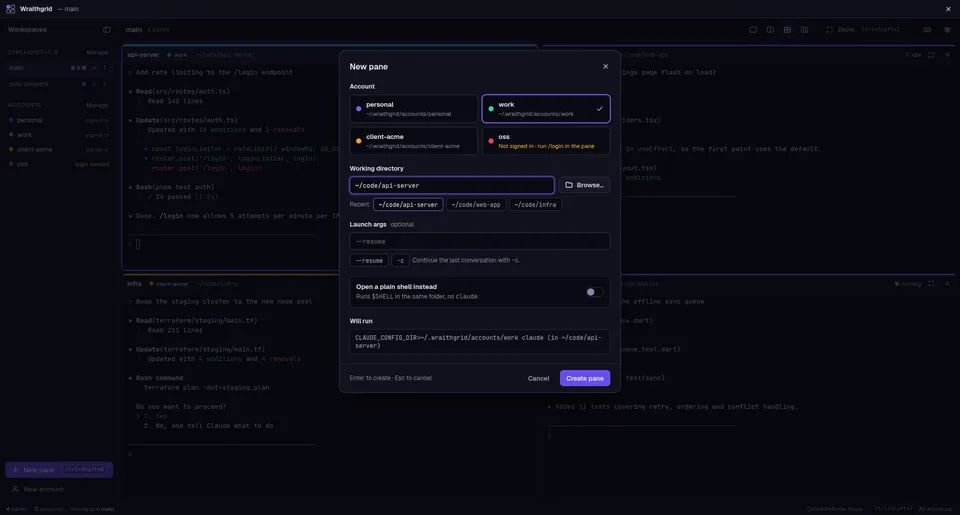
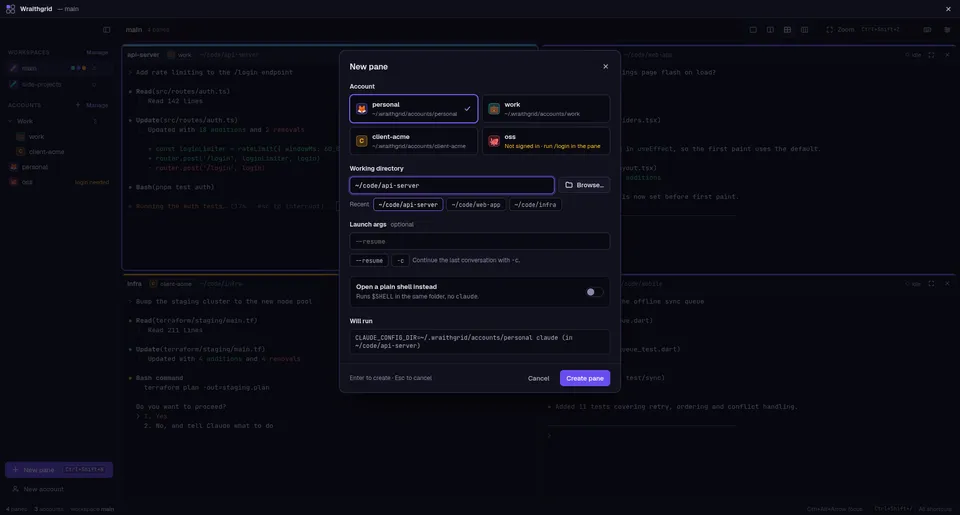
feat(content): update landing page for wraithgrid v1.3.0
The page copy and screenshots still described v1.1.0. Bring them up to
date with what v1.2.0 and v1.3.0 shipped:

- Screenshots re-imported with `pnpm assets` from the app repo's
  refreshed docs/screenshots (sidebar folders, emoji icons, shared
  ~/.claude). Same 1908x1023 size, so SHOT_WIDTH/HEIGHT are unchanged.
- Features: folders, emoji icons and right-click menus folded into the
  Workspaces tile; shared config now covers all of ~/.claude (settings,
  plugins, agents, commands) with a per-account opt-out; the update
  check became one-click in-place updates plus a release notification;
  running panes are animated.
- Shortcuts: Shift+Enter new line, Ctrl+= / Ctrl+- / Ctrl+0 text size.
- FAQ: "Does it update itself?" now says yes from v1.3.0, notes the
  Linux password prompt, and that 1.2.0 and older update by hand once.
- Screenshot alt text rewritten to match the new images.

Folders and icons were merged into an existing tile rather than added
as a tenth: the features grid is three columns, and nine tiles keep it
even.

The version label and download links needed no change; they come from
the GitHub latest-release API at runtime, and the v1.3.0 asset names
still match the platform patterns in src/lib/release.ts.

diff --git a/src/content.ts b/src/content.ts
@@ -13,7 +13,7 @@ export interface Shot {
 }
 
 export const HERO_ALT =
-  'Wraithgrid with four claude CLI panes in a 2×2 grid. Each pane shows its own account, project folder and status: running, or waiting for approval.'
+  'Wraithgrid with four claude CLI panes in a 2×2 grid. Each pane shows its own account, project folder and status: running, idle, or waiting for approval. The sidebar groups accounts into a Work folder, each with its own emoji icon.'
 
 export const GALLERY: readonly Shot[] = [
   {
@@ -24,17 +24,17 @@ export const GALLERY: readonly Shot[] = [
   {
     name: 'accounts',
     title: 'Accounts',
-    alt: 'The Accounts page listing four accounts, each with its own config directory, login status and number of open panes.',
+    alt: 'The Accounts page listing four accounts, each with its own emoji icon, config directory, login status and number of open panes. Every account shares CLAUDE.md, skills and plugins from ~/.claude.',
   },
   {
     name: 'settings',
     title: 'Settings',
-    alt: 'The Settings page with the theme switch, five accent colours, terminal palettes such as Dracula, Nord and Tokyo Night, the terminal font, and the update check.',
+    alt: 'The Settings page with the shared ~/.claude switch (Overall or Each account its own), the theme switch, five accent colours, terminal palettes such as Dracula, Nord and Tokyo Night, and the terminal font.',
   },
   {
     name: 'grid-light',
     title: 'Light theme',
-    alt: 'The same four-pane grid in the light theme.',
+    alt: 'The same four-pane grid in the light theme with the teal accent.',
   },
 ]
 
@@ -68,18 +68,18 @@ export const FEATURES: readonly Feature[] = [
   },
   {
     icon: 'workspaces',
-    title: 'Workspaces',
-    body: 'Keep several workspaces and switch between them with Ctrl+Shift+1…9.',
+    title: 'Workspaces, folders & icons',
+    body: 'Switch workspaces with Ctrl+Shift+1…9. Drag accounts into sidebar folders, give accounts and workspaces an emoji icon, and right-click either to rename or delete it.',
   },
   {
     icon: 'status',
     title: 'Live pane status',
-    body: 'Every pane shows whether it is running, idle, or waiting for your approval.',
+    body: 'Every pane shows whether claude is running (animated), idle, or waiting for your approval.',
   },
   {
     icon: 'shared',
-    title: 'Shared CLAUDE.md and skills',
-    body: 'Optionally link one CLAUDE.md and one skills/ folder into every account.',
+    title: 'One claude setup everywhere',
+    body: 'Every account uses the CLAUDE.md, settings, skills, plugins, agents and commands from your ~/.claude, or each keeps its own. Logins stay separate.',
   },
   {
     icon: 'restore',
@@ -93,8 +93,8 @@ export const FEATURES: readonly Feature[] = [
   },
   {
     icon: 'updates',
-    title: 'Update check',
-    body: 'Checks GitHub Releases for a newer version and tells you when there is one.',
+    title: 'One-click updates',
+    body: 'A desktop notification tells you once when a new version is out. Update & restart in Settings installs it in place.',
   },
   {
     icon: 'private',
@@ -109,6 +109,9 @@ export const SHORTCUTS: readonly { action: string; keys: readonly string[] }[] =
   { action: 'Zoom pane', keys: ['Ctrl', 'Shift', 'Z'] },
   { action: 'Move focus', keys: ['Ctrl', 'Alt', 'Arrow'] },
   { action: 'Switch workspace', keys: ['Ctrl', 'Shift', '1…9'] },
+  { action: 'New line in claude', keys: ['Shift', 'Enter'] },
+  { action: 'Terminal text bigger / smaller', keys: ['Ctrl', '= / -'] },
+  { action: 'Reset terminal text size', keys: ['Ctrl', '0'] },
   { action: 'All shortcuts', keys: ['Ctrl', 'Shift', '/'] },
 ]
 
@@ -132,7 +135,7 @@ export const FAQS: readonly Faq[] = [
   },
   {
     q: 'Does it update itself?',
-    a: 'It checks GitHub Releases and tells you when a new version is out. You download and install the new package yourself.',
+    a: 'Yes, from v1.3.0 on. When a new version is out you get a desktop notification, and Update & restart in Settings downloads it, checks it, installs it over the current one and relaunches. On Linux the .deb, .rpm and pacman packages ask for your password. Versions 1.2.0 and older must be updated by hand once.',
   },
   {
     q: 'Is it free?',
